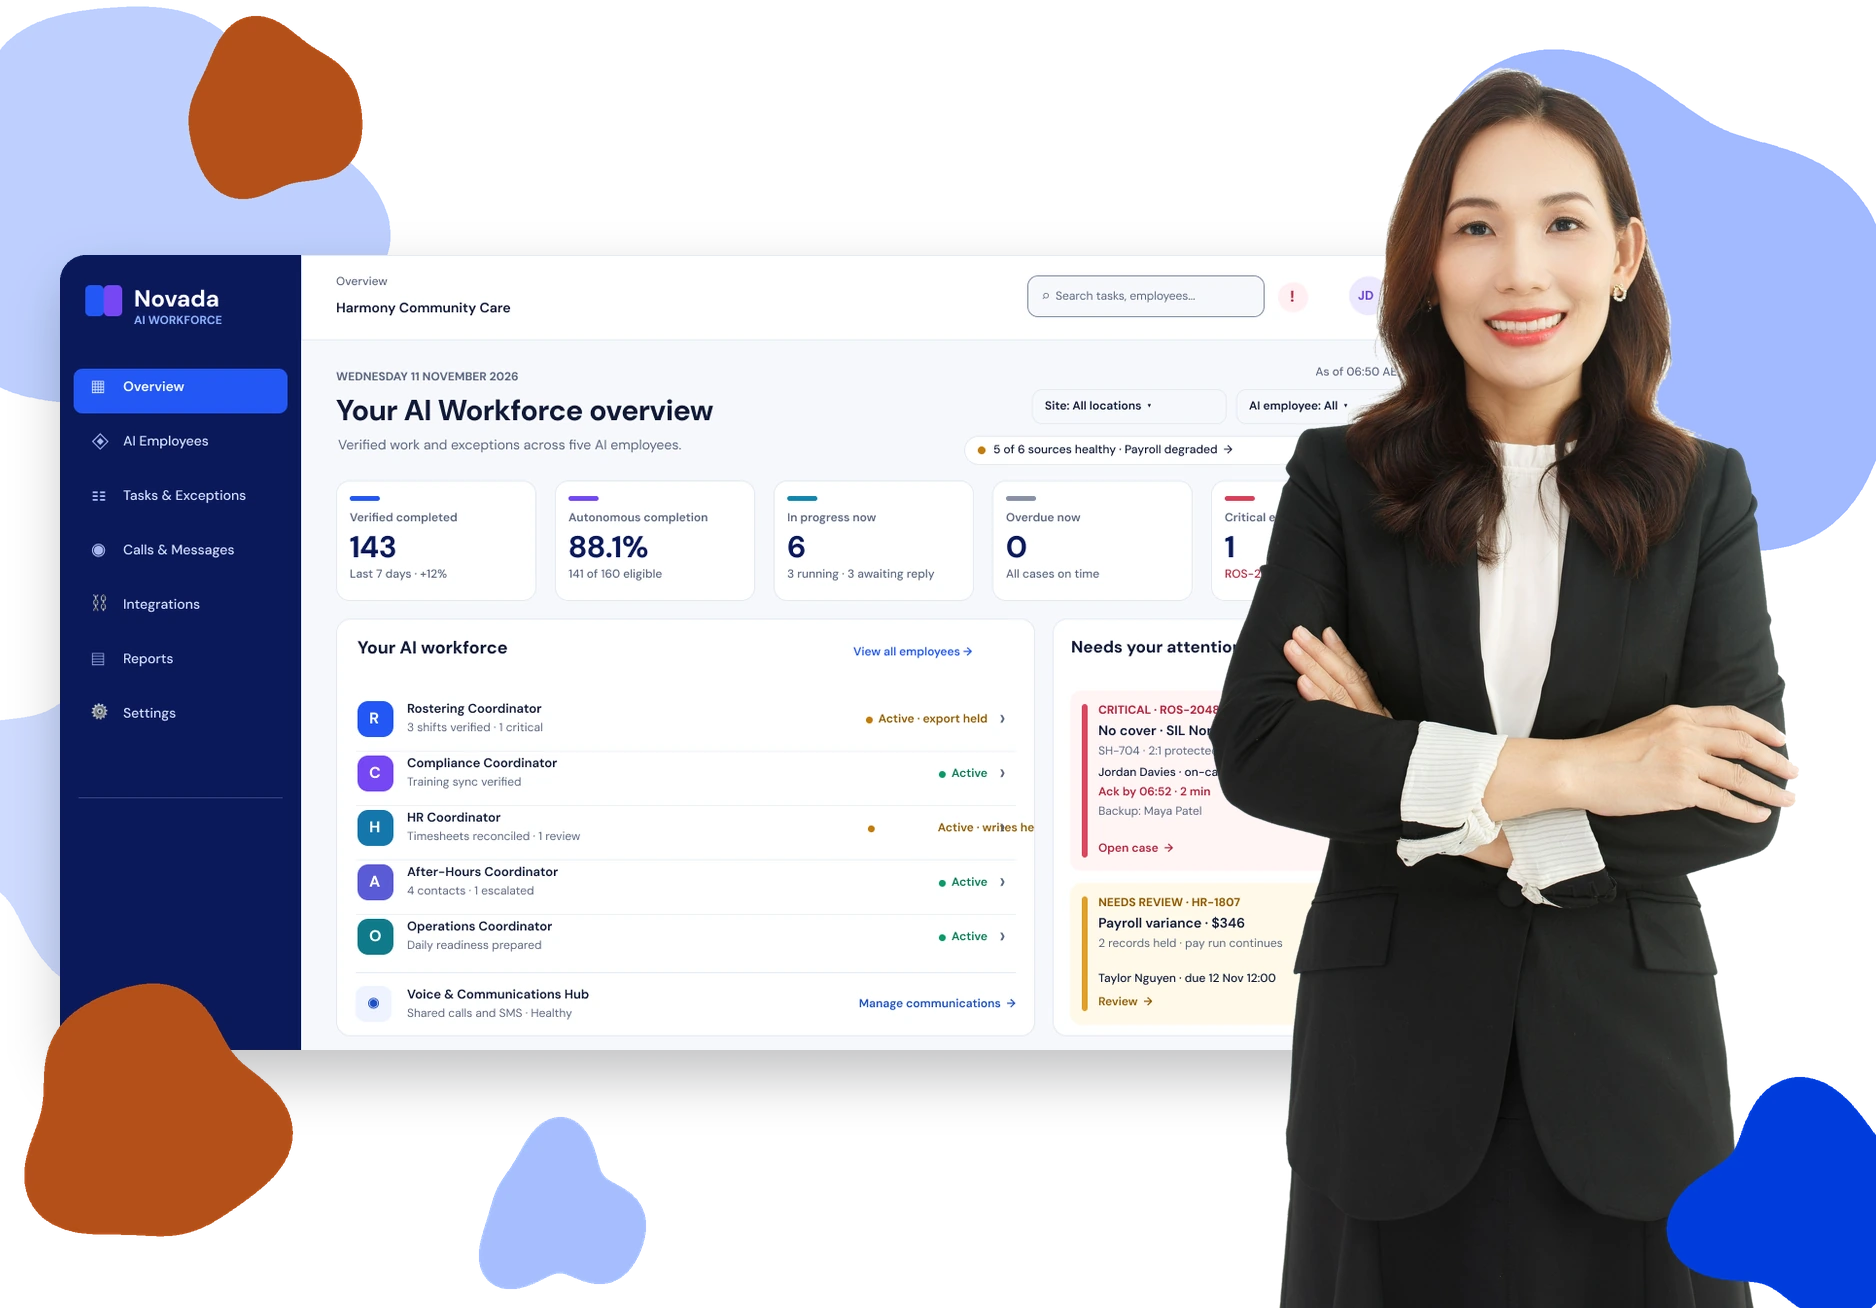
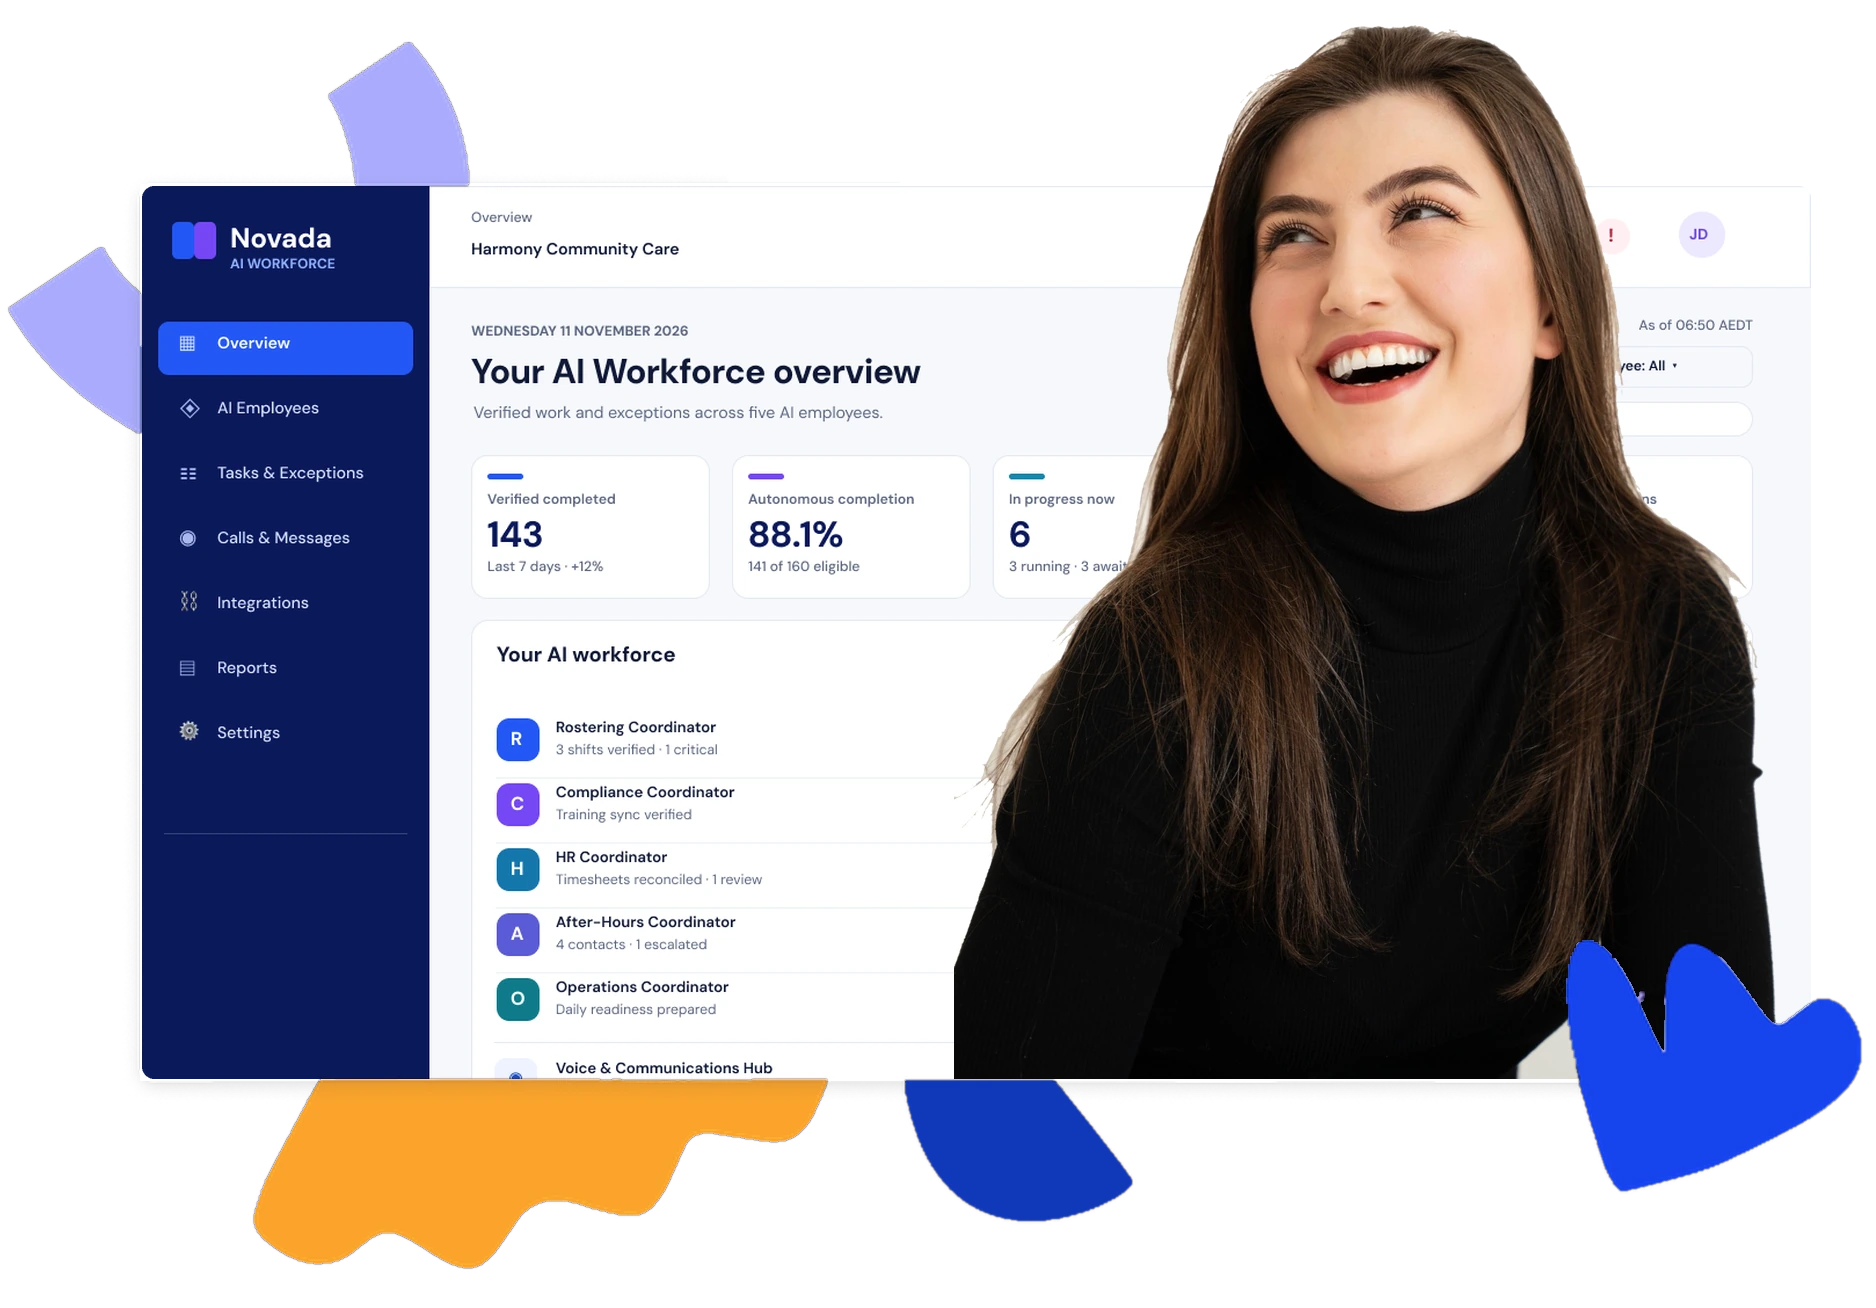
Rebuild the hero on HiBob's exact layout, swapping only the dashboard and the figure
Founder correction: keep their design exactly. Only the dashboard and
the lady change, and the lady is to be Caucasian and placed where
theirs is.

The previous attempt rebuilt the composition from scratch, which was
not what was asked. This starts from the existing hero.png and makes
three surgical swaps, leaving their arrangement, shapes, colours and
placement untouched:

  - dashboard: Novada's own Figma "01 - Overview CURRENT", cropped to
    their panel ratio so it fills the rect exactly
  - figure:    Pexels 35696305, Tran Nhu Tuan (@kooldark), keyed out,
    scaled so her head matches theirs and clipped at the panel bottom
    exactly as theirs was
  - blobs:     theirs, untouched

The blobs therefore remain HiBob's artwork. That was raised and
reaffirmed. The two dominant rights are gone - the model's likeness
and their dashboard UI - and this file should not be recorded as
fully clean.

The panel rect is measured from the alpha channel, not by eye: opaque
runs cols 142..1810 and rows 186..1078 at 2x. An eyeball reading put
the right edge at 1806, which left four columns of their orange banner
showing as a hairline down the panel edge. Their model's hair also
feathers past the panel at alpha 8-20, so the right margin is cleared
and the blue shapes restored over it.

WebP q92, 218 kB against ~1.2 MB as PNG, alpha intact, dashboard text
still crisp.

diff --git a/src/app/care/ai-workforce/AiWorkforcePage.tsx b/src/app/care/ai-workforce/AiWorkforcePage.tsx
@@ -827,24 +827,38 @@ function Avatar({ i }: { i: string }) {
 /**
  * THE HERO IMAGE.
  *
- * ✅ EVERY PART OF THIS IMAGE IS OURS OR LICENSED, since 17 November
- * 2026. Build script: hero_build2.py (session scratchpad), output
- * public/ai-workforce/hero-workforce.webp.
+ * Founder instruction, 17 November 2026: **keep HiBob's design
+ * exactly. Only the dashboard and the lady change, and the lady is to
+ * be Caucasian and placed exactly where theirs is.** Build script:
+ * hero_build3.py (session scratchpad).
  *
- * ⚠ WEBP, NOT PNG, AND THAT IS DELIBERATE. The art is a photograph
- * over flat shapes with an alpha channel. As PNG at this resolution it
- * is 986 kB on the LCP element; as WebP q92 it is 184 kB with the
- * alpha intact and the dashboard text still crisp. It is kept at 2x
- * (1876x1308) because the <img> is 938 wide and renders ~590 CSS px,
- * so a 1x file would be soft on every retina screen.
+ * So this is NOT a fresh composition. It starts from the old hero.png
+ * and makes three surgical swaps, leaving their arrangement untouched:
  *
  *   · the dashboard is NOVADA'S OWN Figma design, "01 - Overview
- *     CURRENT", cropped to the two main cards
- *   · the woman is Pexels 29995622 by Tran Nhu Tuan (@kooldark),
- *     keyed out here. Pexels licence: free for marketing use,
- *     modification allowed, NO attribution required
- *   · the blobs are generated from our own tailwind tokens
- *     (brand-200/400/500, signal-600)
+ *     CURRENT", cropped to THEIR panel ratio so it fills the rect
+ *   · the figure is Pexels 35696305 by Tran Nhu Tuan (@kooldark),
+ *     keyed out here, scaled so her head matches theirs and clipped at
+ *     the panel bottom exactly as theirs was
+ *   · their blobs, their placement, their colours, untouched
+ *
+ * 🔴 SO THE BLOBS ARE STILL HIBOB'S ARTWORK. This was raised with the
+ * founder and reaffirmed. The two dominant rights are gone — the
+ * model's likeness and their dashboard UI — and the shapes remain
+ * theirs. Do not record this file as fully clean.
+ *
+ * ⚠ PANEL RECT IS MEASURED FROM THE ALPHA, NOT BY EYE: opaque runs
+ * cols 142..1810, rows 186..1078 at 2x. An eyeball reading said the
+ * right edge was 1806; four columns of their orange banner then
+ * survived and rendered as a stray orange hairline down the edge.
+ * Their model's hair also feathers out past the panel at alpha 8-20,
+ * so the right margin is cleared too and the blue shapes restored.
+ *
+ * ⚠ WEBP, NOT PNG, AND THAT IS DELIBERATE. The art is a photograph
+ * over flat shapes with an alpha channel. As PNG it is ~1.2 MB on the
+ * LCP element; as WebP q92 it is 218 kB with the alpha intact and the
+ * dashboard text still crisp. Kept at 2x (1876x1308) because the
+ * <img> is 938 wide and renders ~590 CSS px.
  *
  * 🔴 WHAT IT REPLACED, SO NOBODY RESTORES IT. public/ai-workforce/
  * hero.png was HiBob's own marketing image hue-rotated -117 degrees
@@ -861,12 +875,7 @@ function Avatar({ i }: { i: string }) {
  * beside the product, unnamed and unquoted. Never place this image
  * next to a testimonial, a name or a quotation.
  *
- * ⚠ The composition (panel left, figure right breaking its edge,
- * organic shapes) is a layout convention and is deliberately close to
- * the source page's. The SHAPES are not: HiBob's petal marks are their
- * brand artwork, so these are plain generated blobs.
- *
- * ⚠ IT IS A SINGLE FLAT PNG. There is no detail card and no Blobs
+ * ⚠ IT IS A SINGLE FLAT IMAGE. There is no detail card and no Blobs
  * component over it any more, because the image carries its own
  * shapes, exactly as the source page's does. Do not add the old code
  * mock back on top of it.
